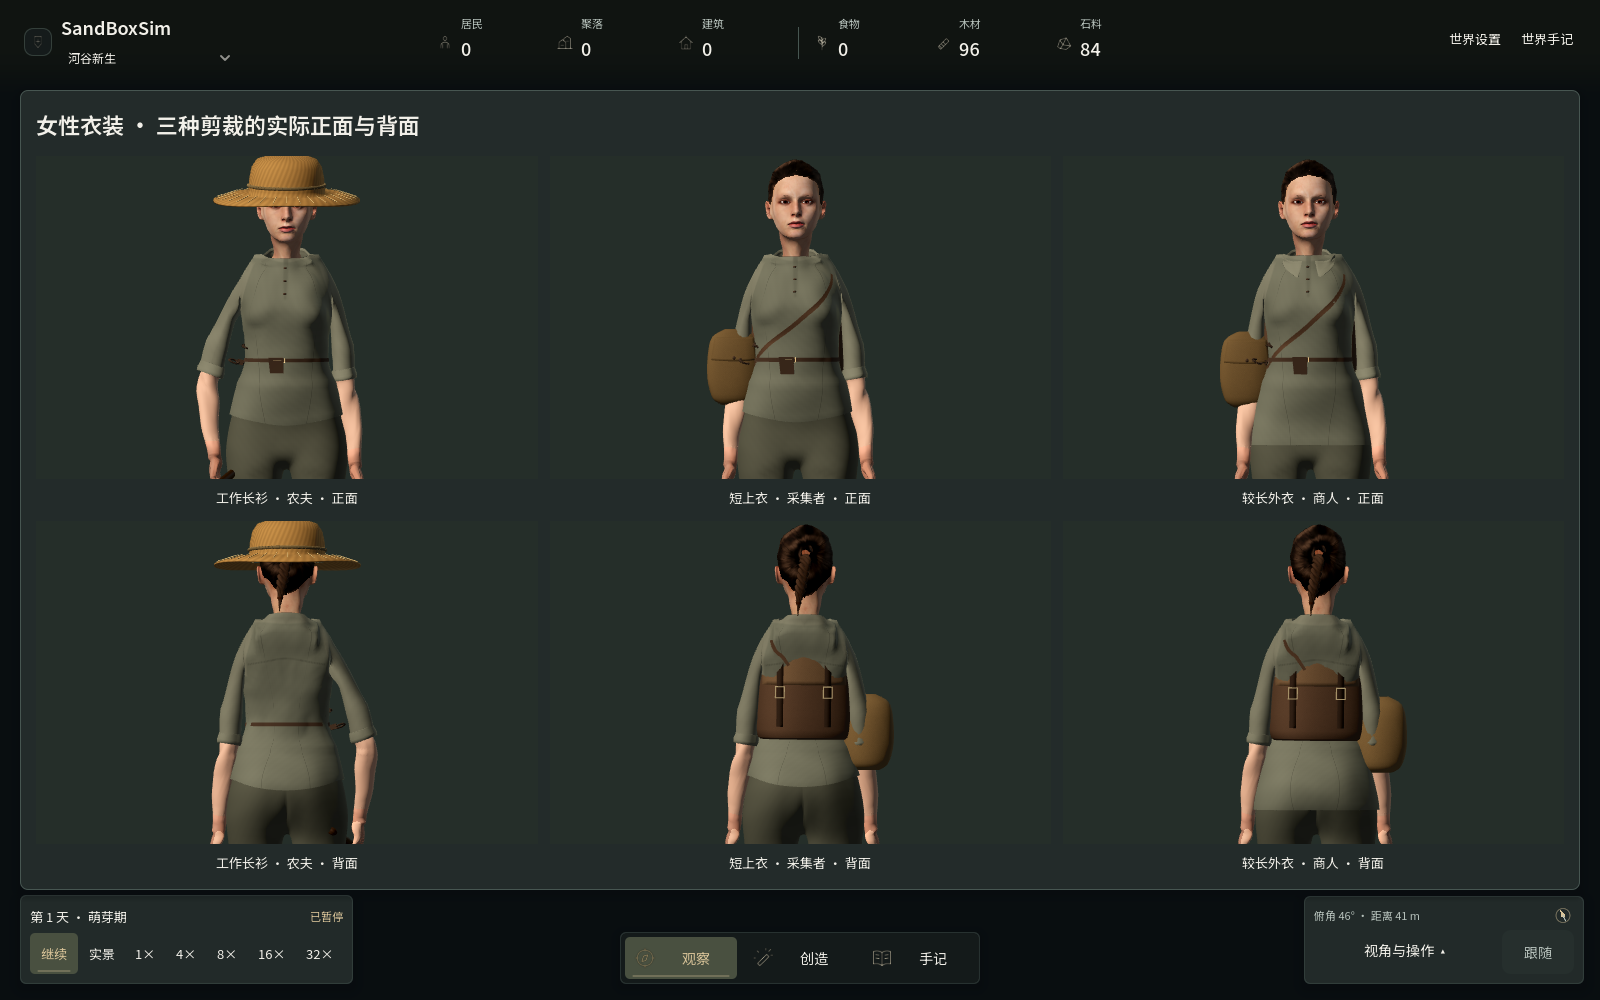
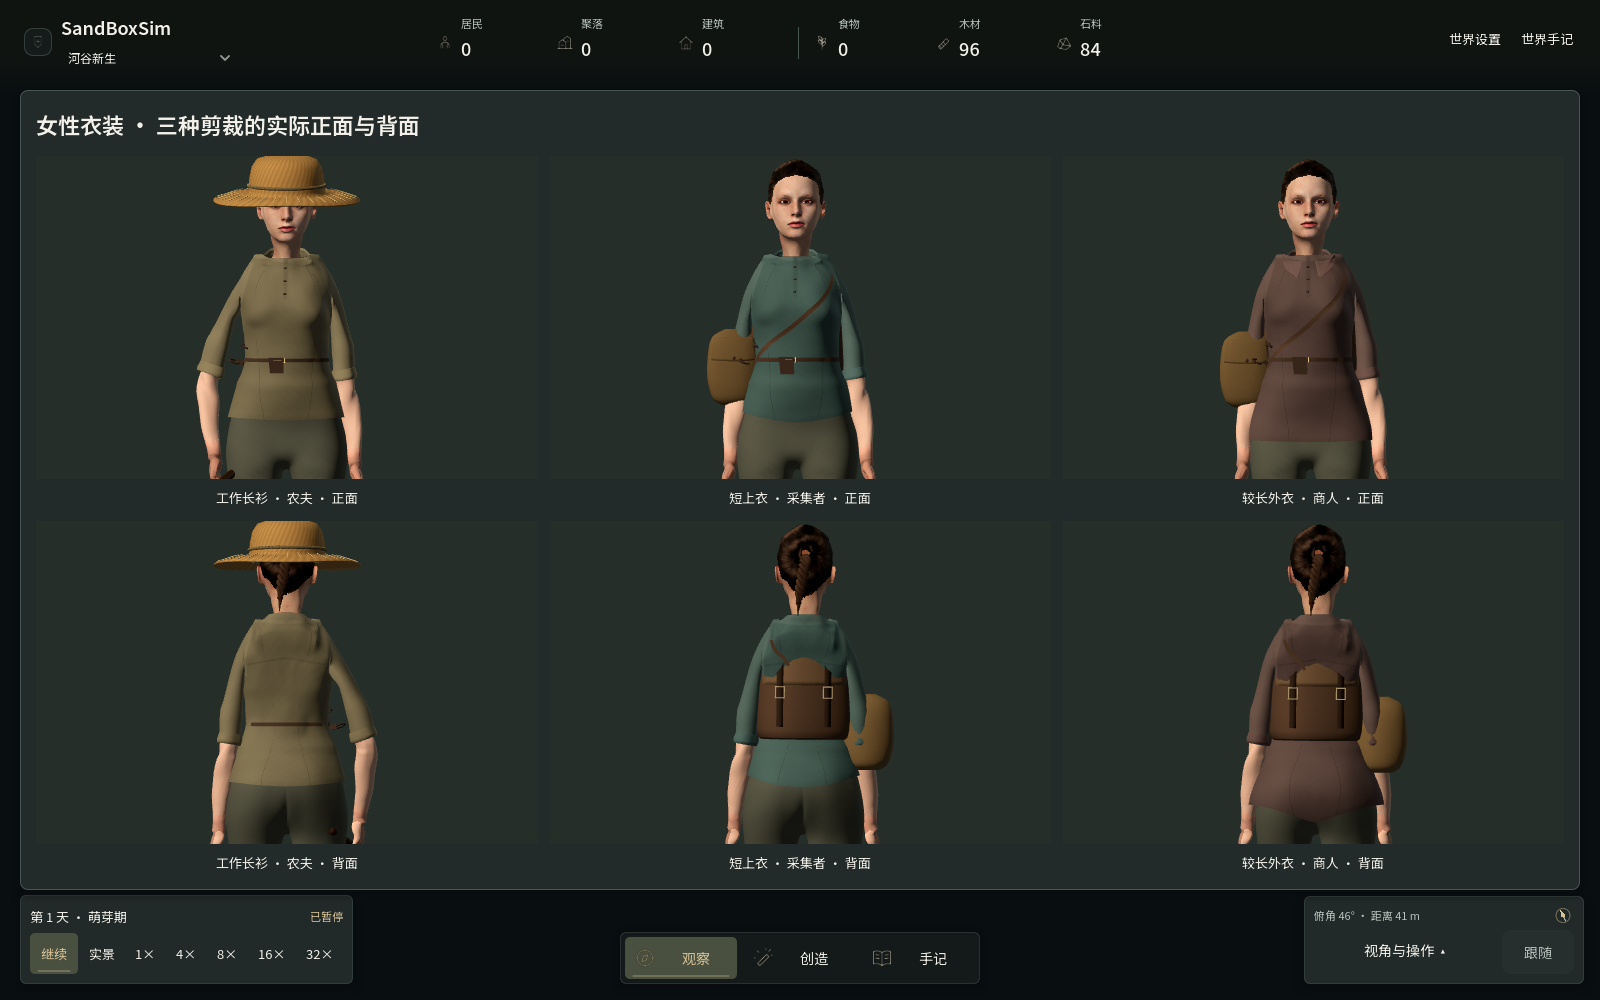
Give female resident garments distinct cuts and dyes

diff --git a/src/SandBoxSim.Godot/NatureModels.BodyBendValidation.cs b/src/SandBoxSim.Godot/NatureModels.BodyBendValidation.cs
@@ -21,7 +21,10 @@ internal sealed partial class NatureModels
                 var bones=cloth[(int)Mesh.ArrayType.Bones].AsInt32Array();var w=cloth[(int)Mesh.ArrayType.Weights].AsFloat32Array();
                 var ids=cloth[(int)Mesh.ArrayType.Index].AsInt32Array();var posed=new Vector3[p.Length];
                 if(FittedFigure)
+                {
                     backYoke=MathF.Max(backYoke,MeasureRearCollarProjection(p,ids));
+                    ValidateFemaleHemCut(p);
+                }
                 var pants=rig.Trousers!.Mesh.SurfaceGetArrays(0);var pp=pants[(int)Mesh.ArrayType.Vertex].AsVector3Array();
                 float hem=float.PositiveInfinity;foreach(var point in p)hem=MathF.Min(hem,point.Y);
                 var pb=pants[(int)Mesh.ArrayType.Bones].AsInt32Array();var pw=pants[(int)Mesh.ArrayType.Weights].AsFloat32Array();
@@ -59,13 +62,18 @@ internal sealed partial class NatureModels
                         // Check the whole overlapping panel, including the
                         // travelling coat below the hip. The curved side of a
                         // short shirt begins above its front/back low points.
-                        float localHem=FittedFigure&&_garmentCut!=2
-                            ?FinishedGarmentHem+ShortFemaleHemOffset(MathF.Sin(MathF.Atan2(pp[i].Z,pp[i].X))):hem;
+                        float localHem=FittedFigure
+                            ?FinishedGarmentHem+FemaleHemOffset(MathF.Sin(MathF.Atan2(pp[i].Z,pp[i].X))):hem;
                         // Probe closer to the revised female hem so the
                         // exterior/facing fit is exercised during motion too.
                         float edgeMargin=FittedFigure?.013f:.020f;
                         if(pp[i].Y<localHem+edgeMargin||pp[i].Y>.91f)continue;
                         var point=Vector3.Zero;for(int j=0;j<4;j++)point+=trouserTransforms[pb[i*4+j]]*trouserPoints[i]*pw[i*4+j];
+                        // Below the front hem, a rear-tail slice is an open
+                        // flap. Its outer back face must cover the trousers,
+                        // but a second, front-facing wall cannot be required.
+                        bool rearTail=FittedFigure&&_garmentCut==2&&pp[i].Z>0
+                            &&pp[i].Y<FinishedGarmentHem+FemaleHemOffset(-1);
                         float front=float.PositiveInfinity,back=float.NegativeInfinity;
                         for(int t=0;t<ids.Length;t+=3)
                         {
@@ -76,9 +84,19 @@ internal sealed partial class NatureModels
                             // roundoff at shared triangle edges. Include those
                             // edges without relaxing the millimetre clearance.
                             float u=hit.Cross(ac)/det,v=ab.Cross(hit)/det;if(u<-.000001f||v<-.000001f||u+v>1.000001f)continue;
-                            float z=a.Z*(1-u-v)+b.Z*u+c.Z*v;front=MathF.Min(front,z);back=MathF.Max(back,z);
+                            float z=a.Z*(1-u-v)+b.Z*u+c.Z*v;
+                            front=MathF.Min(front,z);
+                            if(!rearTail||det<0)back=MathF.Max(back,z);
                         }
-                        if(!float.IsFinite(front)||point.Z<front-.001f||point.Z>back+.001f)
+                        if(rearTail&&!float.IsFinite(back))
+                        {
+                            // A bent trouser leg can move below the open rear
+                            // edge. Use the posed edge at this lateral station
+                            // to distinguish exposure from a missing panel.
+                            float lowerEdge=PosedRearEdgeAt(p,posed,ids,point.X);
+                            if(float.IsFinite(lowerEdge)&&point.Y<lowerEdge)continue;
+                        }
+                        if(!float.IsFinite(back)||(!rearTail&&point.Z<front-.001f)||point.Z>back+.001f)
                             throw new InvalidOperationException($"Trousers pierce the lower shirt: {identity}/{job}/{action}/{f}, source={pp[i]}, point={point}, cloth={front}/{back}, hem={hem}, torso={rig.Torso.Rotation}, pelvis={rig.LowerGarmentFrame}");
                         probes++;
                     }
@@ -123,6 +141,54 @@ internal sealed partial class NatureModels
         GD.Print($"FEMALE_BACK_YOKE_PASS: actual exterior depth, 3 cuts and 3 rear meridians, maximum collar-relative projection={backYoke*1000:F2} mm");
         GD.Print($"LUMBAR_CLOTH_PASS: 2 frames/3 cuts, 3 actions, {probes} actual posed trouser-clearance rays; pelvic/chest excursion={excursion:F3} m, rigid mounts and pause");
         GD.Print($"RELAXED_STANCE_PASS: 2 frames/480 steps, planted level soles after 0.35s entry, entry drift={entryDrift:F4} m, fixed thigh lengths, sway={sway:F3} m, knee={knee:F3} rad and pause");
+    }
+
+    private void ValidateFemaleHemCut(Vector3[] points)
+    {
+        var (left,right,front,back)=HemExtents(points);
+        float sideRise=MathF.Min(left,right)-MathF.Max(front,back);
+        float rearDrop=front-back;
+        bool correct=_garmentCut switch
+        {
+            0=>sideRise>=.004f&&sideRise<=.014f&&MathF.Abs(rearDrop)<.005f,
+            1=>sideRise>=.020f&&sideRise<=.036f,
+            _=>rearDrop>=.033f&&rearDrop<=.047f
+        };
+        if(!correct||MathF.Abs(left-right)>.003f)
+            throw new InvalidOperationException($"Female cut {_garmentCut} loses its authored hem profile: side={sideRise}, rear={rearDrop}");
+        GD.Print($"FEMALE_HEM_CUT_PASS: cut={_garmentCut}, actual side rise={sideRise*1000:F1} mm, rear drop={rearDrop*1000:F1} mm");
+    }
+
+    private static (float Left,float Right,float Front,float Back) HemExtents(Vector3[] points)
+    {
+        float left=float.PositiveInfinity,right=left,front=left,back=left;
+        foreach(var p in points)
+        {
+            float radius=new Vector2(p.X,p.Z).Length();
+            if(radius<.05f)continue;
+            if(p.X<-.95f*radius)left=MathF.Min(left,p.Y);
+            if(p.X>.95f*radius)right=MathF.Min(right,p.Y);
+            if(p.Z<-.97f*radius)front=MathF.Min(front,p.Y);
+            if(p.Z>.97f*radius)back=MathF.Min(back,p.Y);
+        }
+        if(!float.IsFinite(left)||!float.IsFinite(right)||!float.IsFinite(front)||!float.IsFinite(back))
+            throw new InvalidOperationException("Missing garment hem sector");
+        return(left,right,front,back);
+    }
+
+    private static float PosedRearEdgeAt(Vector3[] rest,Vector3[] posed,int[] indices,float x)
+    {
+        float lowest=float.PositiveInfinity;
+        for(int t=0;t<indices.Length;t+=3)
+        for(int edge=0;edge<3;edge++)
+        {
+            int i=indices[t+edge],j=indices[t+(edge+1)%3];
+            if(rest[i].Z<=0||rest[j].Z<=0||rest[i].Y>.9f||rest[j].Y>.9f)continue;
+            var a=posed[i];var b=posed[j];
+            if(x<MathF.Min(a.X,b.X)||x>MathF.Max(a.X,b.X)||a.X==b.X)continue;
+            lowest=MathF.Min(lowest,Mathf.Lerp(a.Y,b.Y,(x-a.X)/(b.X-a.X)));
+        }
+        return lowest;
     }
 
     private static float MeasureRearCollarProjection(Vector3[] points,int[] indices)

diff --git a/src/SandBoxSim.Godot/NatureModels.BodyFrame.cs b/src/SandBoxSim.Godot/NatureModels.BodyFrame.cs
@@ -125,6 +125,16 @@ internal sealed partial class NatureModels
                 // its support above the waistband over a finite distance.
                 float trousers=TrouserLayerRadius(MathF.Min(panelHeight,.935f),angle);
                 target=Mathf.Lerp(BlendOuterLayer(target,trousers),target,Mathf.SmoothStep(.94f,.969f,panelHeight));
+                // Release the lower coat panels from the belt toward the
+                // hip instead of following the trousers into their folds.
+                float release=1-Mathf.SmoothStep(.80f,.935f,panelHeight);
+                float flank=MathF.Abs(MathF.Cos(angle));
+                target+=_garmentCut switch
+                {
+                    0=>.005f*release*flank*flank,
+                    2=>release*(.004f+.010f*flank*flank),
+                    _=>0
+                };
             }
             else if(panelHeight<.94f)
             {
@@ -547,16 +557,7 @@ internal sealed partial class NatureModels
             GD.Print($"BODY_CUT_PASS: raised garment hem={hemRise:F4} m, preserved trouser overlap and separate lower-body geometry");
             float CheckCurvedHem(Mesh mesh)
             {
-                float left=float.PositiveInfinity,right=left,front=left,back=left;
-                foreach(var p in mesh.SurfaceGetArrays(0)[(int)Mesh.ArrayType.Vertex].AsVector3Array())
-                {
-                    float radius=new Vector2(p.X,p.Z).Length();
-                    if(radius<.05f)continue;
-                    if(p.X<-.95f*radius)left=MathF.Min(left,p.Y);
-                    if(p.X>.95f*radius)right=MathF.Min(right,p.Y);
-                    if(p.Z<-.97f*radius)front=MathF.Min(front,p.Y);
-                    if(p.Z>.97f*radius)back=MathF.Min(back,p.Y);
-                }
+                var (left,right,front,back)=HemExtents(mesh.SurfaceGetArrays(0)[(int)Mesh.ArrayType.Vertex].AsVector3Array());
                 float curve=MathF.Min(left,right)-MathF.Max(front,back);
                 if(!float.IsFinite(curve)||curve<.020f||curve>.036f||MathF.Abs(left-right)>.003f)
                     throw new InvalidOperationException("Short female shirt loses its curved side hem or waistband coverage");
@@ -660,6 +661,7 @@ internal sealed partial class NatureModels
         finally{male.Free();female.Free();_faceVariant=previous;_facePoints=null;_faceIndices=null;}
         GD.Print("BODY_CUT_POSE_PASS: raised hem retains trouser overlap through eating, work and pickup transitions");
         GD.Print("BODY_FRAMES_PASS: source chest/waist/hip presentation, separate near/far caches, bounded forearm fit/Jacobian, exact wrist and animated limb lengths");
+        ValidateLumbarClothing();
     }
     private static float ClothSectionWidth(Mesh mesh,float height,Color? cloth=null,bool allowEmpty=false)
     {

diff --git a/src/SandBoxSim.Godot/NatureModels.AdultPhysique.cs b/src/SandBoxSim.Godot/NatureModels.AdultPhysique.cs
@@ -69,19 +69,24 @@ internal sealed partial class NatureModels
         // anatomical waist with a short 1.15 m height ramp over-compressed the
         // lower panels, even though the radial map remained invertible.
         float result=panel+(finished-hem)*(1-Mathf.SmoothStep(hem,1.23f,panel));
-        if(FittedFigure&&_garmentCut!=2)
+        if(FittedFigure)
         {
-            // A broad curved hem follows the pelvis and clears the side of
-            // the upper thigh. Fade into the panel before reaching the belt.
-            float offset=ShortFemaleHemOffset(MathF.Sin(MathF.Atan2(point.Z,point.X)));
+            // Give each cut its own hem shape. Fade the change before it
+            // reaches the natural waist and the mounted equipment.
+            float offset=FemaleHemOffset(MathF.Sin(MathF.Atan2(point.Z,point.X)));
             result+=offset*(1-Mathf.SmoothStep(finished,finished+.085f,result));
         }
         return result;
     }
-    private static float ShortFemaleHemOffset(float depth)
+    private float FemaleHemOffset(float depth)
     {
         float depthSquared=depth*depth,side=1-depthSquared;
-        return .013f*side*side-(depth<0?.018f:.017f)*depthSquared;
+        return _garmentCut switch
+        {
+            0=>.005f*side-(depth<0?.004f:.006f)*depthSquared,
+            1=>.013f*side*side-(depth<0?.018f:.017f)*depthSquared,
+            _=>.014f*side+(depth<0?.008f*depthSquared:-.033f*depthSquared*depthSquared)
+        };
     }
 
     private float FinishedGarmentHem=>_garmentCut==2?(BodyFrame==1?.78f:.745f)

diff --git a/src/SandBoxSim.Godot/NatureModels.Residents.cs b/src/SandBoxSim.Godot/NatureModels.Residents.cs
@@ -176,6 +176,11 @@ internal sealed partial class NatureModels
         string[] clothColors = { "#637471", "#8c8978", "#806f65", "#6a7680", "#717961", "#9a9080" };
         string[] skinColors = { "#aa8b78", "#8e705e", "#ba9d89", "#806653" };
         string cloth = clothColors[variation % clothColors.Length], skin = skinColors[(variation >> 4) % skinColors.Length];
+        if(FittedFigure)
+        {
+            var dye=new Color(_garmentCut switch {0=>"#948364",1=>"#59736f",_=>"#765854"});
+            cloth="#"+new Color(cloth).Lerp(dye,.70f).ToHtml(false);
+        }
         string hair = (variation & 1) == 0 ? "#42352c" : "#695344";
         var rig = new ResidentRig { Name = "Resident", IsChild = child };
         rig.Torso = new Node3D { Name = "Torso" }; rig.AddChild(rig.Torso);

diff --git a/src/SandBoxSim.Godot/NatureModels.Validation.cs b/src/SandBoxSim.Godot/NatureModels.Validation.cs
@@ -40,7 +40,6 @@ internal sealed partial class NatureModels
     {
         ValidateTorsoTextContract();
         ValidateBodyFrames();
-        ValidateLumbarClothing();
         ValidateContinuousTrousers();
         ValidateCeramics();
         ValidateThatch();

diff --git a/docs/development/models.md b/docs/development/models.md
@@ -179,6 +179,8 @@
 
 女性三款成衣的下摆使用成品外层截面拟合。拟合时剔除内侧翻边三角面，沿最低实测外层截面的切向补足采样边界。翻边的两圈顶点随后从外层下缘和上一排重新定位，分别向内收 2.4 与 3.2 毫米。近景网格重算法线，远景从同一静止衣面生成。裤装与下摆的重叠在拾取、工作和步行姿态下通过蒙皮后的表面检查。
 
+三款女性成衣各自使用下摆高度曲线。工作衫沿侧腰放出少量活动余量，下缘接近平直。采集短衣在侧髋抬高，前后保留弧线。商人外套由腰向下逐渐展开，后片比前片更长。余量从已覆盖裤装的外层衣面向外加，接近腰带前逐渐归零。三款染色分别向亚麻褐、灰绿和暖赭调整，混合居民原有颜色。正背面可直接比较同一居民换装后的效果。[女性成衣图册](../images/resident-female-wardrobe.png) · [Colonial Williamsburg 工作短衣藏品](https://emuseum.colonialwilliamsburg.org/objects/7862/jacket) · [腰下展开版型藏品](https://emuseum.colonialwilliamsburg.org/objects/503/jacket)
+
 女性后领与上背之间采用局部深度修形。肩袖拟合完成后，后片超出目标弧面的部分逐渐向内收，修形在领口和袖窿前退出。几何法线从成品网格重建，近远景使用相同的静止轮廓。后育克的弧形针脚由衣面的静止坐标驱动，随肩背弯曲。三款衣装的实际成品在背中线及左右 25 毫米的截面上检查后领下方的外突量。造型参考肩颈与肩胛之间的宽缓连接，以及服装在肩部活动时的拉伸与压缩。[肩颈表面结构](https://elsevier-elibrary.com/contents/fullcontent/58090/epubcontent_v2/OEBPS/B9780443069529000126A.htm) · [Blender Studio 衣装形体](https://studio.blender.org/training/realistic-human-research/clothing-shapes/)
 
 [女性三款衣装实机配图](../images/resident-female-wardrobe.png)展示相同身份的正面与背面。女性三款衣装可通过 [公开衣装场景](../../benchmarks/scenarios/visual-female-wardrobe.json) 复现，同镜头比较正面与背面，完整身体仍看 `visual-body-frames`／`visual-body-motion`。结构调研参考 [Proko 的前胸形体常见错误](https://www.proko.com/course-lesson/common-mistakes-of-drawing-breasts)和 [Blender Studio 角色制作流程](https://studio.blender.org/training/realistic-human-research/)；当前是穿衣曲面与有限姿态修正，不是新的裸身扫描或软组织仿真。
@@ -442,7 +444,7 @@
 
 [NASA 人体整合设计手册](https://www.nasa.gov/wp-content/uploads/2023/03/human-integration-design-handbook-revision-1.pdf)说明了男女尺寸范围与个体差异；[肩胛形态研究](https://pmc.ncbi.nlm.nih.gov/articles/PMC11470781/)也区分了尺寸与形状因素。[FAA 人因设计指南第 14 章](https://rosap.ntl.bts.gov/view/dot/12782/dot_12782_DS1.pdf)区分肩宽、髋宽等尺寸，并要求考虑衣着及多项尺寸的关联；项目用它指导分区与比较方式，没有把某一个样本均值当作所有人的比例。本项目保留身份决定的等比身高变化，并通过头脸、躯干及小臂共同表现外观。这里是两种成人表现轮廓，不是模拟内核的性别系统或对角色身份的判断；儿童不应用成人女性躯干映射，目前也没有完整年龄、体脂或肌肉量生成系统。
 
-`--panel=body-motion` 配对展示实际站立、行走和弯身拾取，`--panel=body-frames` 显示无职业装备遮挡、相同衣色与肤色的正面／侧面／背面全身三视图，`--panel=forearm-frames` 显示两种外观的小臂掌侧、背侧和侧面。图册采用实际游戏模型，参数与采样见[配图索引](../images/README.md)。
+`--panel=body-motion` 配对展示实际站立、行走和弯身拾取，`--panel=body-frames` 显示无职业装备遮挡、同视角与同肤色的正面／侧面／背面全身三视图，`--panel=forearm-frames` 显示两种外观的小臂掌侧、背侧和侧面。图册采用实际游戏模型，参数与采样见[配图索引](../images/README.md)。
 
 ![成人穿衣体型对照](../images/resident-body-frames.png)
 

diff --git a/docs/development/human-assets.md b/docs/development/human-assets.md
@@ -65,7 +65,7 @@ python -B tools/fetch-body-reference.py --verify
 
 `--panel=forearms` 是本地维护预览，展示相同模型的左右掌侧/背侧；该旧入口仅用于本地观察。体型与小臂的公开评测入口见下文。
 
-当前小臂另通过 `RefineForearmProfile` 收束肌腹，并以连续曲率过渡保留腕部及隐藏肘缘。两种成人外观拥有独立缓存，近手、远手与前臂保持同源轮廓；法线包含体积形变导数，手指和握柄区不改变。形态依据、项目拟合范围与局限见[成人体型与前臂说明](models.md)。新增公开评测面板 `body-frames` 与 `forearm-frames`，分别复现同衣色体型和小臂正侧面比较；对应 `visual-body-frames.json` 与 `visual-forearm-frames.json`。
+当前小臂另通过 `RefineForearmProfile` 收束肌腹，并以连续曲率过渡保留腕部及隐藏肘缘。两种成人外观拥有独立缓存，近手、远手与前臂保持同源轮廓；法线包含体积形变导数，手指和握柄区不改变。形态依据、项目拟合范围与局限见[成人体型与前臂说明](models.md)。新增公开评测面板 `body-frames` 与 `forearm-frames`，分别复现同视角的成人体型和小臂正侧面比较；对应 `visual-body-frames.json` 与 `visual-forearm-frames.json`。
 
 发根表现参考 [MakeHuman 官方材质](https://static.makehumancommunity.org/assets/creatingassets/makeclothes/makeclothes_materials.html)和[Godot 透明材质](https://docs.godotengine.org/en/stable/tutorials/3d/standard_material_3d.html)。当前固定 Compatibility 路径仍使用原 Scissor；没有声称启用 Alpha-to-Coverage，也没有新增扫描或全部毛发几何。
 

diff --git a/docs/images/README.md b/docs/images/README.md
@@ -1,6 +1,6 @@
 # SandBoxSim 实机图册
 
-本页基础配图来自 2026-11-06 的 SandBoxSim 客户端，游戏源码为 `b396be219d860f4997484a092d051009afa97659`。同日补拍了下摆分层版本的全身姿势图、后领与上背修形版本的成衣和抬臂图，以及靴筒重塑版本的全身三视图与步态对照静态图。各批均使用 Godot 4.7.2 .NET 和 GL Compatibility，静态图默认 1600×1000。地图和人物观察窗使用世界中的实际对象，模型图册使用与世界共用的网格和控制器。帧号为从零开始的表现帧。
+本页基础配图来自 2026-11-06 的 SandBoxSim 客户端，游戏源码为 `b396be219d860f4997484a092d051009afa97659`。同日的抬臂图采用后领与上背修形版本，步态对照静态图采用靴筒重塑版本，女性成衣、全身三视图和全身姿势图采用职业衣装分版后的模型。各批均使用 Godot 4.7.2 .NET 和 GL Compatibility，静态图默认 1600×1000。地图和人物观察窗使用世界中的实际对象，模型图册使用与世界共用的网格和控制器。帧号为从零开始的表现帧。
 
 ## 世界与操作界面
 

diff --git a/benchmarks/README.md b/benchmarks/README.md
@@ -27,7 +27,7 @@
 | `visual-architecture` | 五种住房与仓库的无标题裁切图与对象识别题 |
 | `visual-characters` | 成人、儿童、鹿和狼的对象识别 |
 | `visual-faces` | 面部近景，供人工表面检查 |
-| `visual-face-frames` | 同衣色、肤色的男女成人外观，正面及三刻面；第 90 帧，模拟零步进 |
+| `visual-face-frames` | 同肤色的男女成人外观，正面及三刻面；第 90 帧，模拟零步进 |
 | `visual-arm-swing` | 同步正面、侧面与掌腕近景的空手启停／摆臂；冻结模拟，以 60 Hz 推进动画，含短循环连续采样；用于方向与衔接检查 |
 | `visual-shoulder-elevation` | 两种成人外观的正侧背面，0–135° 抬起、保持、放下与休息；十二秒固定 60 Hz，冻结模拟，用于肩袖变形检查 |
 | `visual-shoulder-motion` | 两种成人外观的同工具正面／工作臂侧面／背面肩肘近景，抬手、挥锤和返回携带；固定 60 Hz，冻结模拟 |

diff --git a/CHANGELOG.md b/CHANGELOG.md
@@ -4,6 +4,7 @@
 
 ## 2026-11-06
 
+- 女性三款职业衣装使用独立下摆轮廓和染色。工作衫保留较平直的下缘，采集短衣两侧抬高，商人外套在腰下展开并延长后片。
 - 女性靴筒重塑为后侧小腿肚饱满、踝部逐渐收窄的轮廓。靴口前高后低，脚踝末段延伸到鞋面内部。
 - 女性三款上衣重塑后领下方的上背轮廓。原本外突的衣面平缓接回领口，后育克使用一条随衣面变形的弧形缝线。
 - 女性三款上衣的外层下摆与内衬分别拟合。工装和短上衣保留弧形边缘，长外套的下缘贴合裤装外侧，减轻贴近观察时的断续暗纹。
